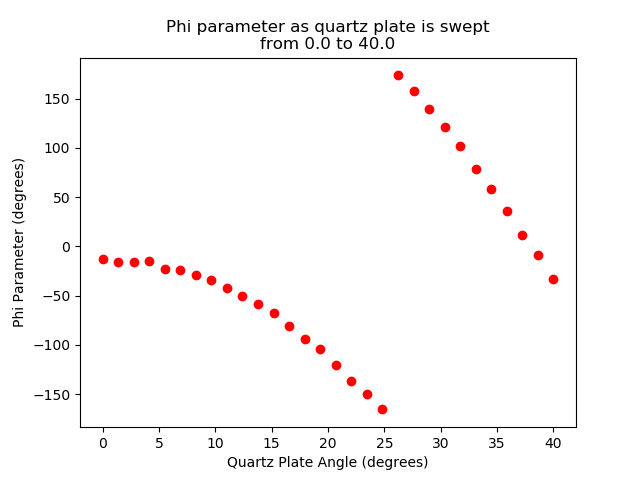
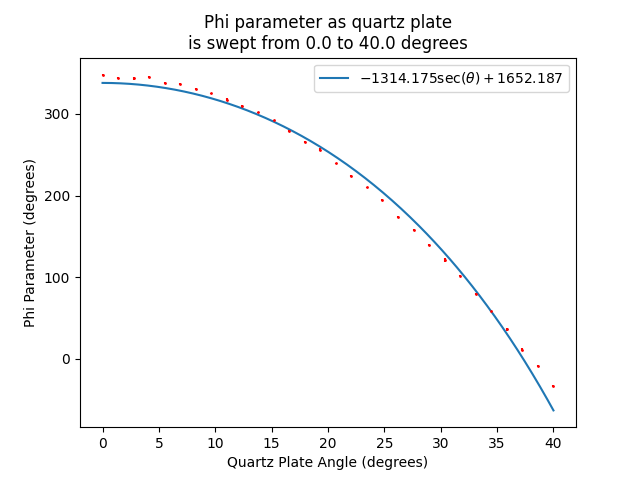
added working state creation files

diff --git a/framework/core/analysis.py b/framework/core/analysis.py
@@ -101,6 +101,12 @@ FIT_FUNCS = {
 
 # +++ functions for fitting +++
 
+def eval(func:Union[str, 'function'], **kwargs):
+    ''' Evaluate a fit function with given arguments. '''
+    if isinstance(func, str):
+        func = FIT_FUNCS[func]
+    return func(**kwargs)
+
 def fit(func:Union[str,'function'], x:np.ndarray, y:np.ndarray,  y_err:np.ndarray, full_covm:bool=False, **kwargs) -> Tuple[np.ndarray, np.ndarray]:
     ''' Fit data to a sine function
 
@@ -198,4 +204,14 @@ def find_ratio(func1:Union[str,'function'], args1:np.ndarray, func2:Union[str,'f
     # minimize
     res = opt.minimize(min_me, guess, args=(args1, args2), bounds=((x_min, x_max),))
     # obtain the result
+    return res.x[0]
+
+def find_value(func:Union[str,'function'], kwargs:dict, target:float):
+
+    # define a function to minimize
+    def min_me(x_:np.ndarray) -> float:
+        return np.abs(eval(func, x=x_, **kwargs) - target)
+    # minimize it
+    res = opt.minimize(min_me, 10)
+    # return the x value that minimizes it
     return res.x[0]

diff --git a/framework/sweep_fits.py b/framework/sweep_fits.py
@@ -55,9 +55,6 @@ def sweep_qp_phi(m:Manager, samp:Tuple[int,float], num_step:int, out_file:str=No
     print(f'b = {params[1]} ± {uncs[1]}')
     plt.show()
 
-
-
-
 if __name__ == '__main__':
     
     SAMP = (3,0.5)
